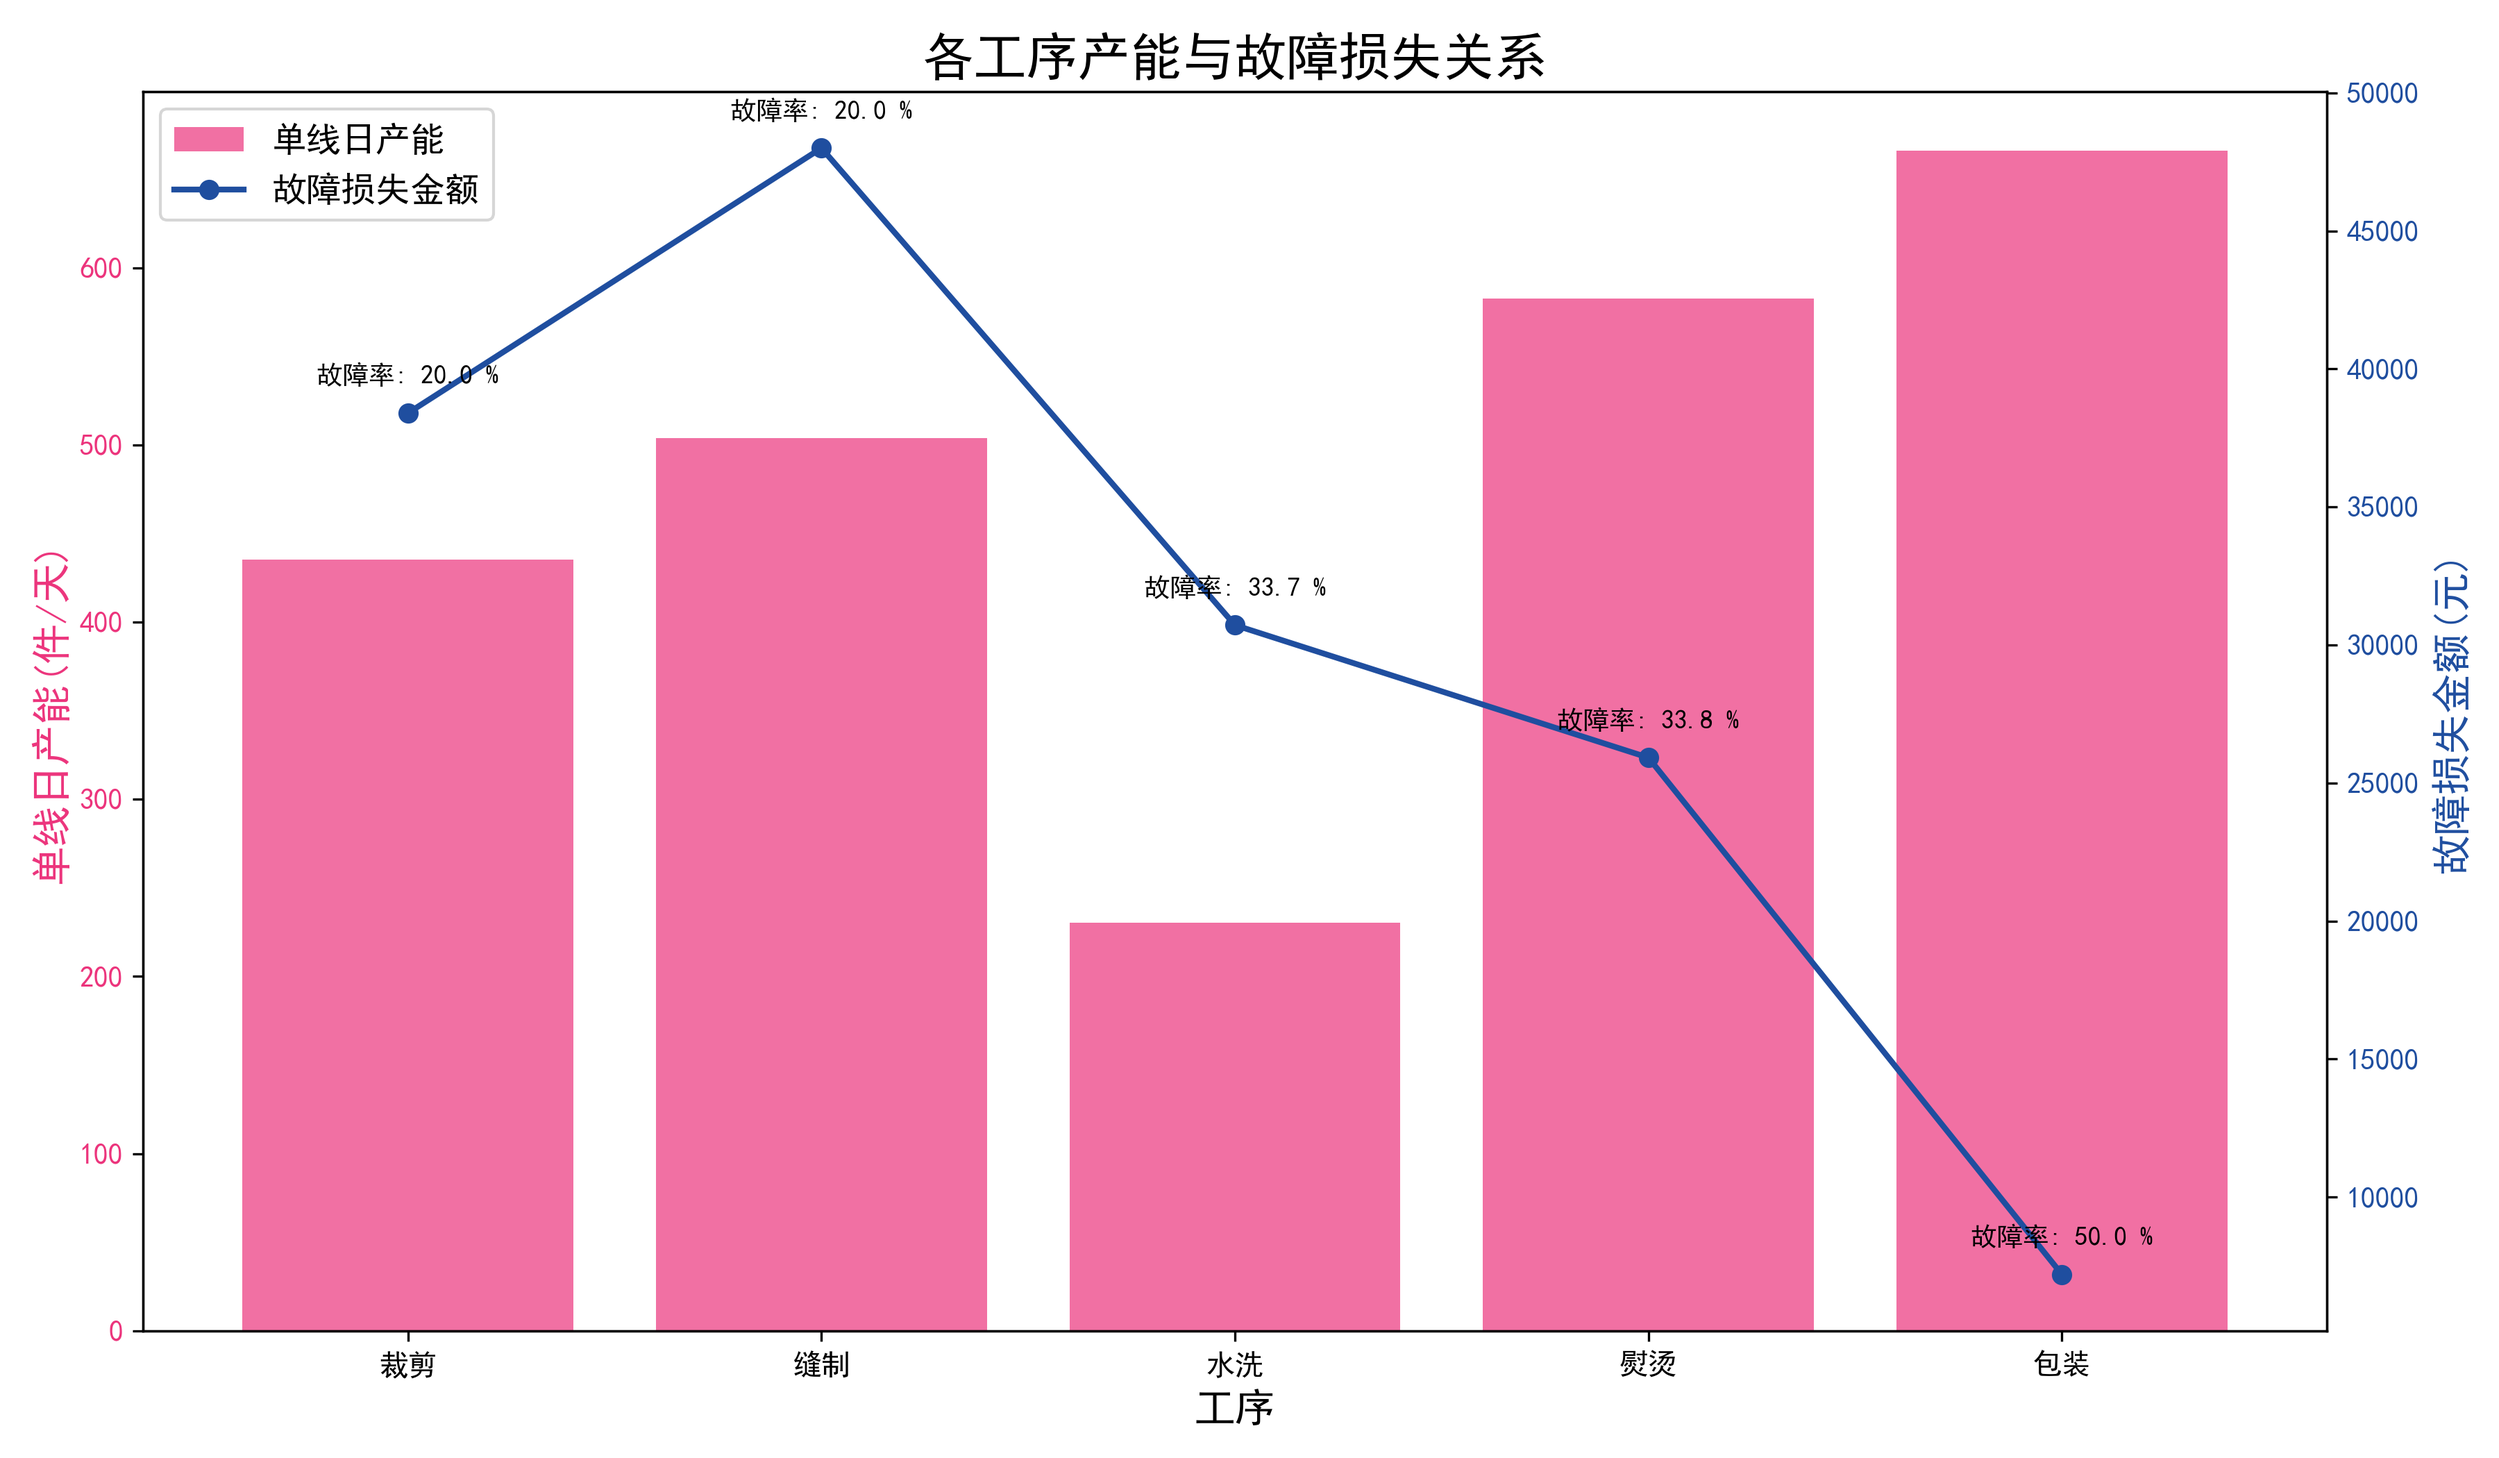
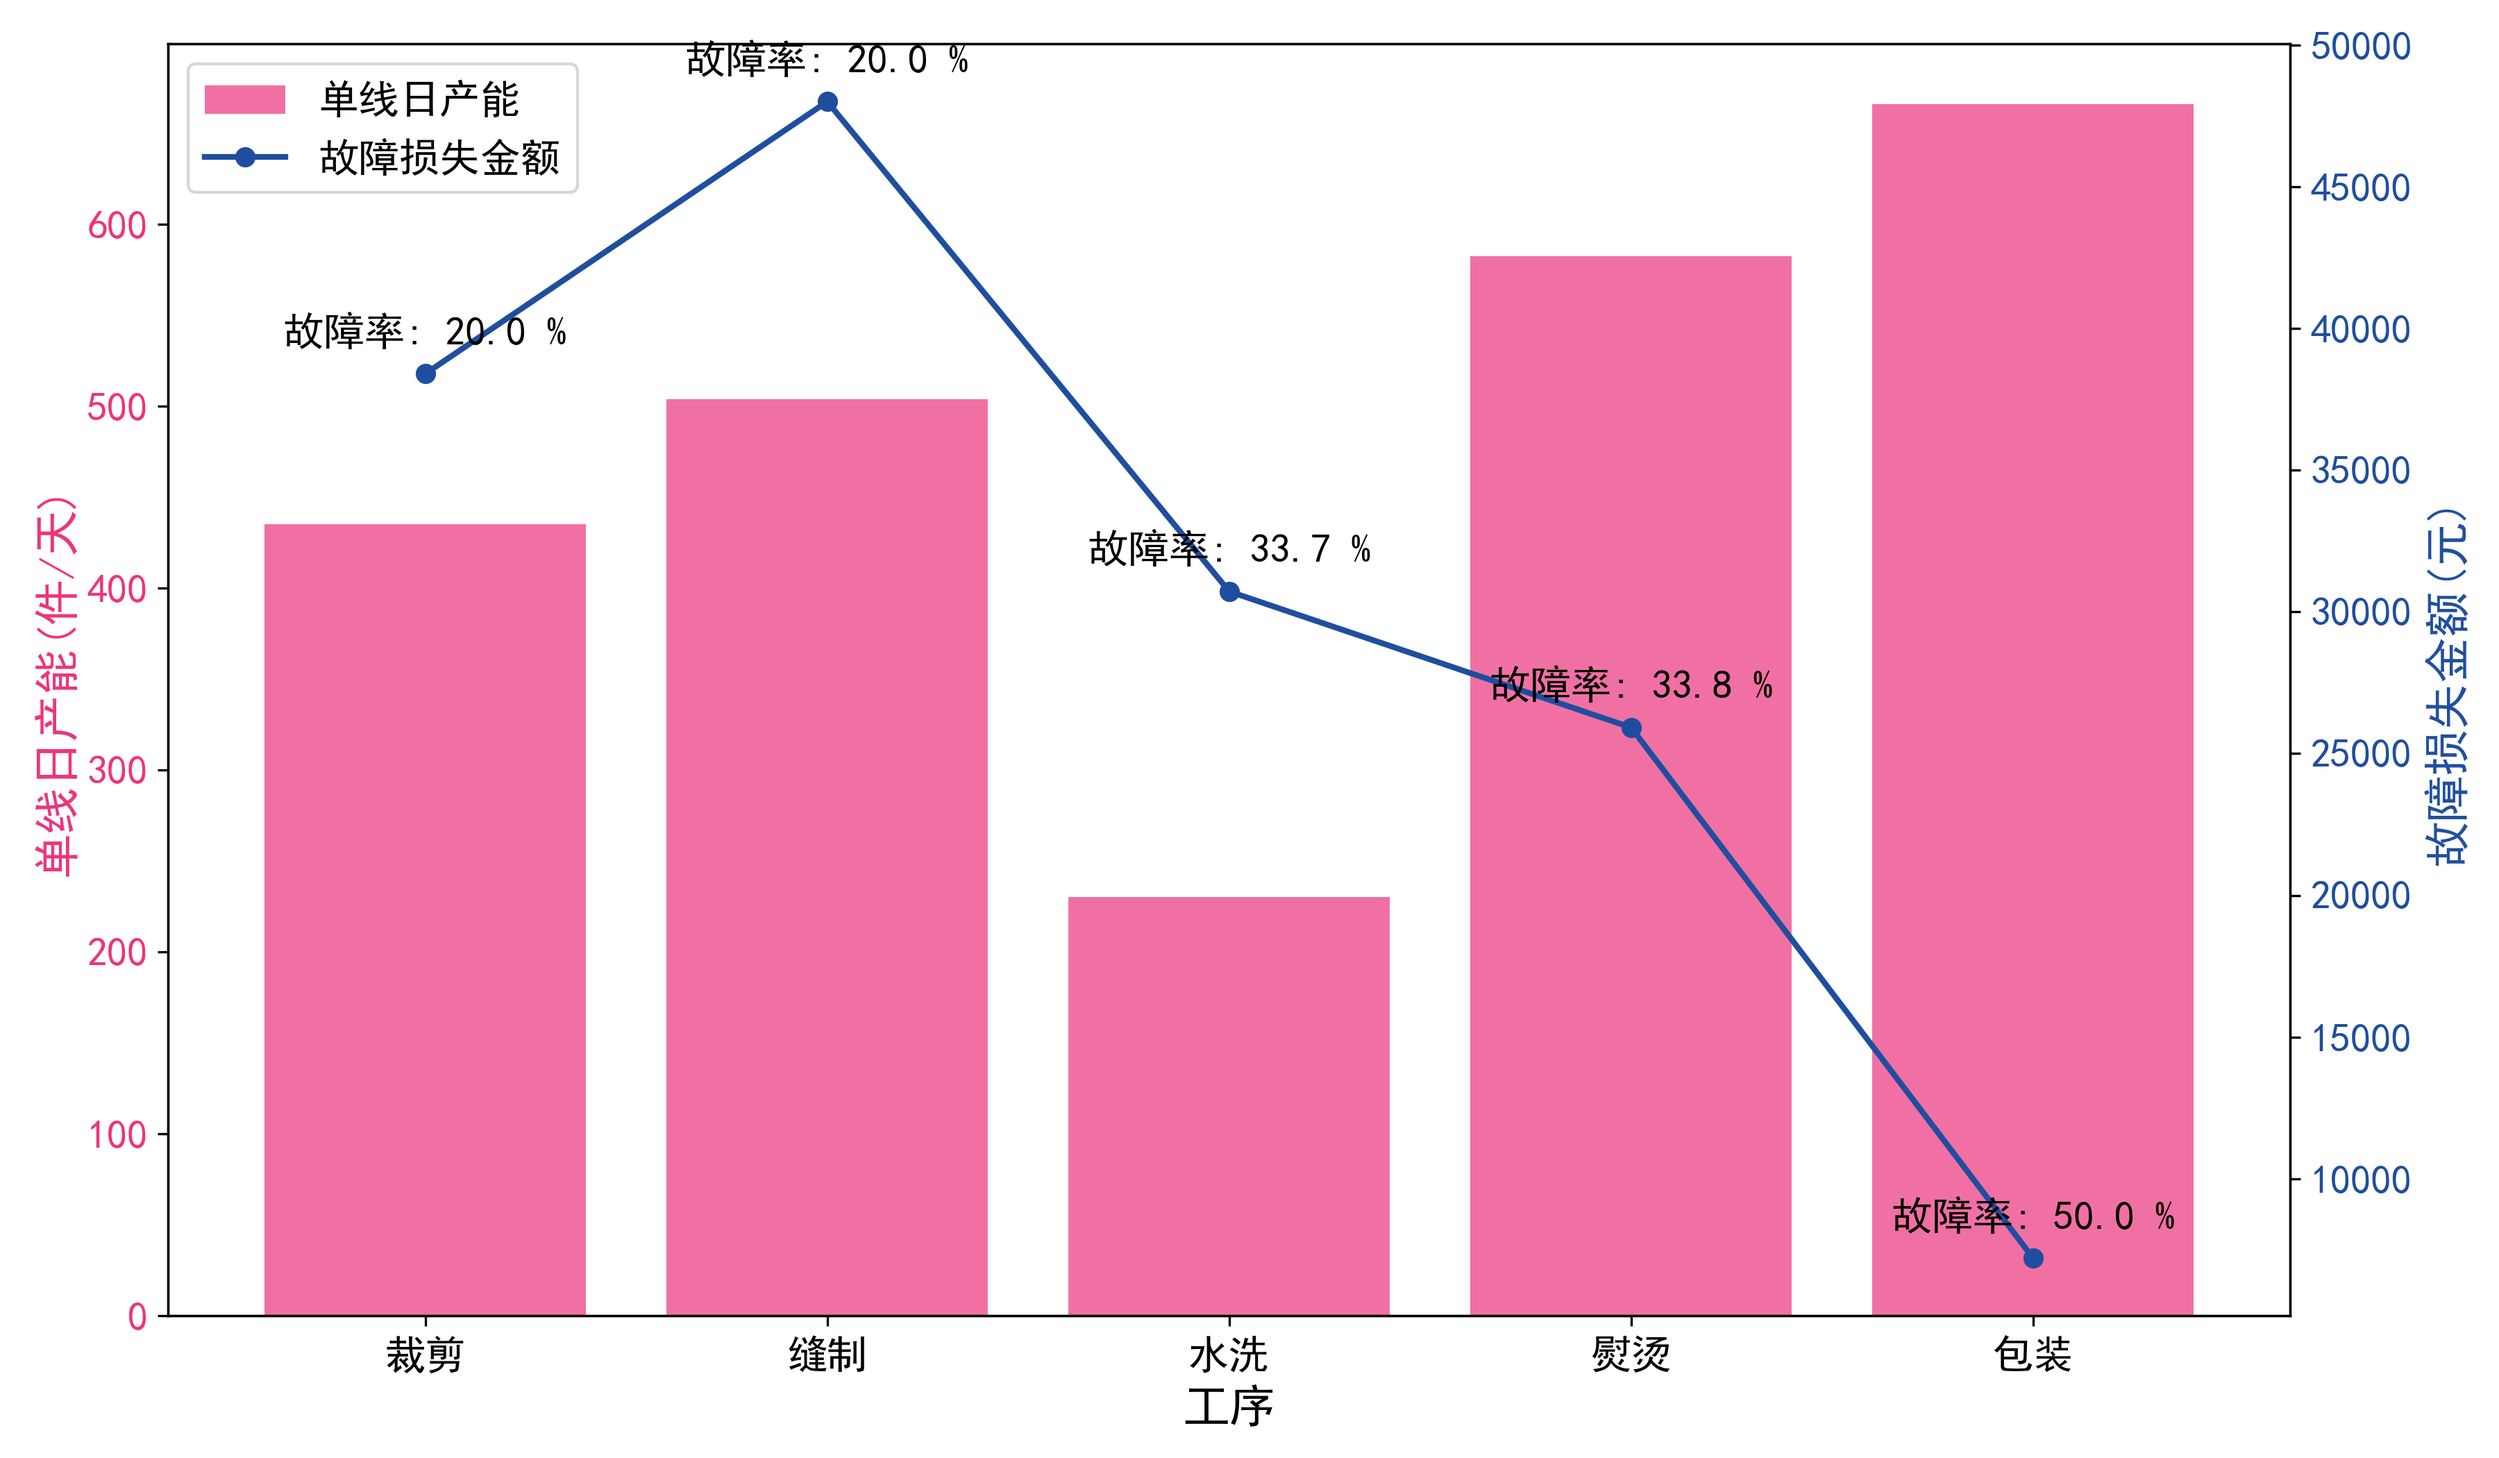
更新绘图

diff --git a/第二十七届华东杯大学生数学建模邀请赛/code/Q1_plot.py b/第二十七届华东杯大学生数学建模邀请赛/code/Q1_plot.py
@@ -51,15 +51,15 @@ def plot1_capacity_bar(df):
 
 def plot2_fault_pie(df):
     plt.figure(figsize=(10, 8))
-    explode = [0.1 if i == df['总损失金额(元)'].astype(float).idxmax() else 0 for i in range(len(df))]
+    # explode = [0.1 if i == df['总损失金额(元)'].astype(float).idxmax() else 0 for i in range(len(df))]
     plt.pie(df['总损失金额(元)'].astype(float), 
             labels=df['工序'], 
             autopct='%1.1f%%',
             startangle=90, 
-            explode=explode,
+            # explode=explode,
             colors=COLORS,
             shadow=False,
-            textprops={'fontsize': 12})
+            textprops={'fontsize': 18})
     # plt.title('各工序故障损失占比', fontsize=18)
     plt.axis('equal')
     plt.tight_layout()
@@ -68,11 +68,20 @@ def plot2_fault_pie(df):
 
 def plot3_worker_heatmap(df):
     plt.figure(figsize=(10, 8))
-    custom_cmap = plt.cm.colors.LinearSegmentedColormap.from_list("custom_blue_cmap", [COLORS[1], COLORS[4]], N=256)
-    sns.heatmap(df.set_index('技工等级'), annot=True, cmap=custom_cmap, fmt='d', linewidths=.5, cbar_kws={'label': '人数'})
+    custom_cmap = plt.cm.colors.LinearSegmentedColormap.from_list("custom_blue_cmap", [COLORS[1], COLORS[0]], N=256)
+    # 增加annot_kws参数设置注释文字大小，增加cbar_kws中标签字体大小
+    ax = sns.heatmap(df.set_index('技工等级'), annot=True, cmap=custom_cmap, fmt='d', 
+                 linewidths=.5, annot_kws={"size": 16}, 
+                 cbar_kws={'label': '人数'})
+    # 去除左侧技工等级标签
+    ax.set_ylabel('')
+    # 设置colorbar的标签大小
+    cbar = ax.collections[0].colorbar
+    cbar.ax.set_ylabel('人数', fontsize=16)
+    cbar.ax.tick_params(labelsize=14)
     # plt.title('工人分配方案热力图', fontsize=18)
-    plt.xticks(fontsize=12)
-    plt.yticks(fontsize=12)
+    plt.xticks(fontsize=16)
+    plt.yticks(fontsize=16)
     plt.tight_layout()
     plt.savefig('img/q1_工人分配方案热力图.png', dpi=300)
     plt.close()
@@ -121,15 +130,17 @@ def plot3_worker_heatmap(df):
 
 def plot6_combo(df1, df2):
     fig, ax1 = plt.subplots(figsize=(12, 7))
-    ax1.set_xlabel('工序', fontsize=14)
-    ax1.set_ylabel('单线日产能(件/天)', color=COLORS[0], fontsize=14)
+    ax1.set_xlabel('工序', fontsize=16)
+    ax1.set_ylabel('单线日产能(件/天)', color=COLORS[0], fontsize=16)
     ax1.bar(df1['工序'], df1['单线日产能(件/天)'].astype(float), color=COLORS[0], alpha=0.7, label='单线日产能')
-    ax1.tick_params(axis='y', labelcolor=COLORS[0])
+    # 轴体字体大小
+    ax1.tick_params(axis='y', labelcolor=COLORS[0], labelsize=14)
+    ax1.tick_params(axis='x', labelsize=14)
 
     ax2 = ax1.twinx()
-    ax2.set_ylabel('故障损失金额(元)', color=COLORS[4], fontsize=14)
+    ax2.set_ylabel('故障损失金额(元)', color=COLORS[4], fontsize=16)
     ax2.plot(df2['工序'], df2['总损失金额(元)'].astype(float), 'o-', color=COLORS[4], linewidth=2, label='故障损失金额')
-    ax2.tick_params(axis='y', labelcolor=COLORS[4])
+    ax2.tick_params(axis='y', labelcolor=COLORS[4], labelsize=14)
 
     for i, txt in enumerate(df2['平均故障率(次/小时)']):
         ax2.annotate(f'故障率: {float(txt)*100:.1f} %', 
@@ -137,13 +148,13 @@ def plot6_combo(df1, df2):
                     xytext=(0, 10),
                     textcoords='offset points',
                     ha='center',
-                    fontsize=9)
+                    fontsize=14)
 
     lines1, labels1 = ax1.get_legend_handles_labels()
     lines2, labels2 = ax2.get_legend_handles_labels()
-    ax1.legend(lines1 + lines2, labels1 + labels2, loc='upper left', fontsize=12)
+    ax1.legend(lines1 + lines2, labels1 + labels2, loc='upper left', fontsize=14)
 
-    plt.title('各工序产能与故障损失关系', fontsize=18)
+    # plt.title('各工序产能与故障损失关系', fontsize=18)
     plt.tight_layout()
     plt.savefig('img/q1_各工序产能与故障损失关系.png', dpi=300)
     plt.close()
